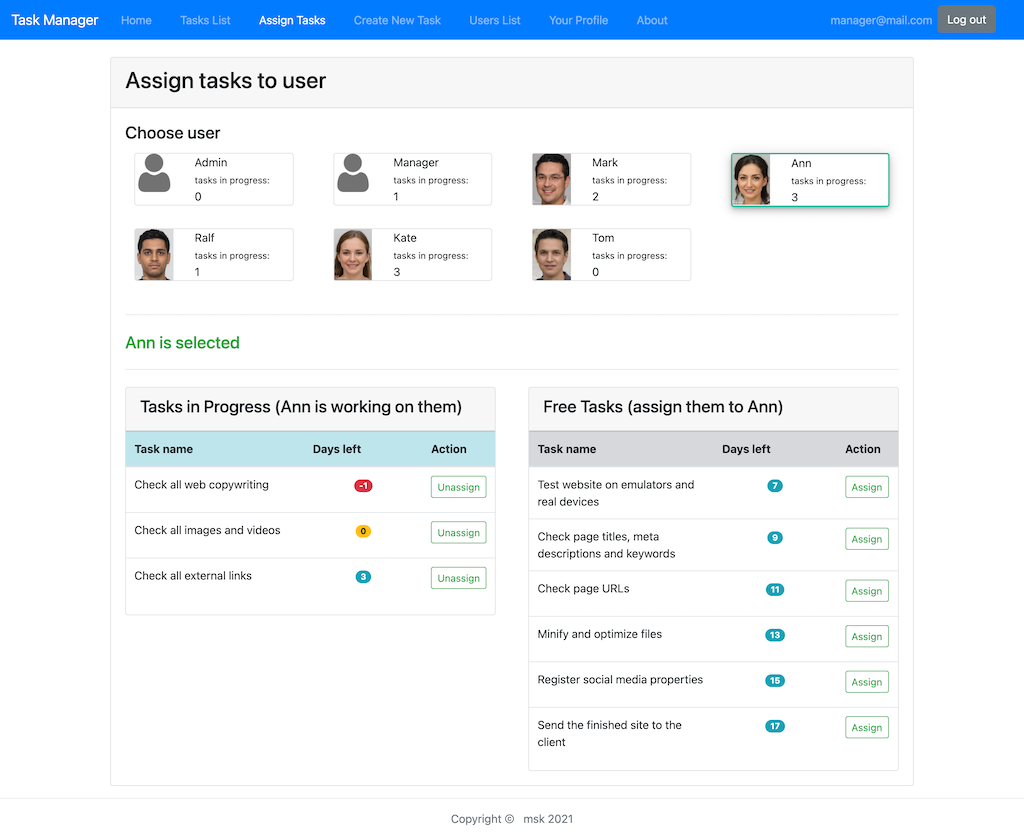
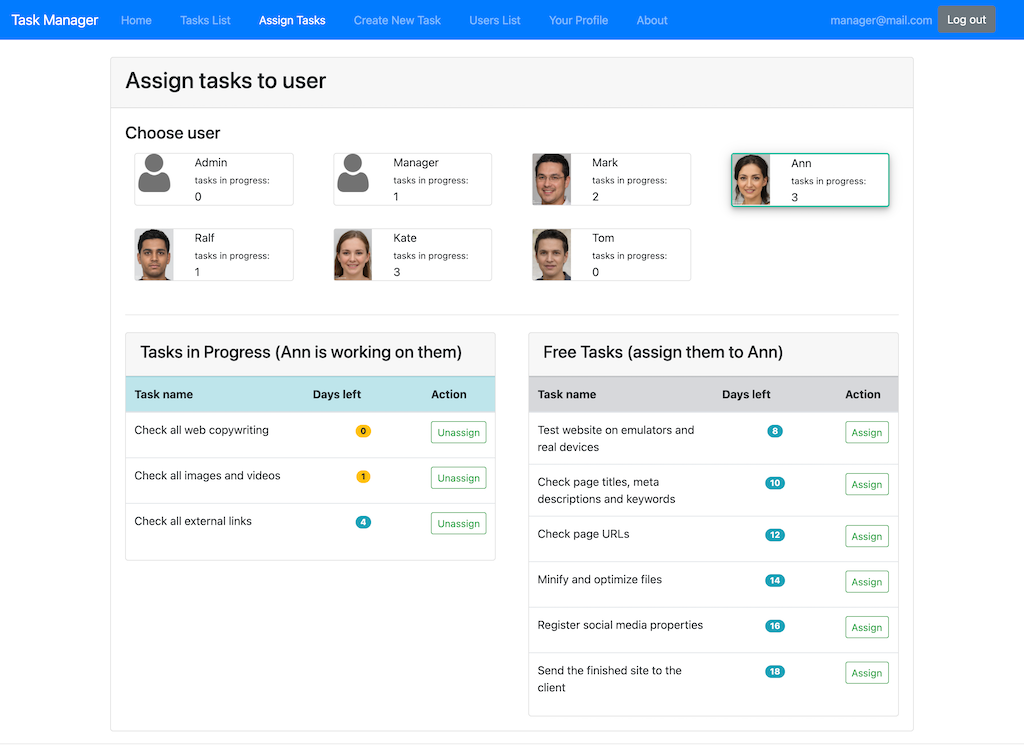
Modify UI of Assign Tasks page

diff --git a/src/main/resources/templates/forms/assignment.html b/src/main/resources/templates/forms/assignment.html
@@ -52,16 +52,7 @@
                 </div>
             </div>
 
-            <hr class="my-4">
-
-            <h2 class="my-second-header" th:if="${selectedUser==null}">No user is selected</h2>
-            <h2 class="my-second-header" th:unless="${selectedUser==null}">
-                <span class="text-success"
-                      th:text="${selectedUser.getName() +' is selected'}">
-                </span>
-            </h2>
-
-            <hr class="my-4">
+            <hr class="my-4" th:if="${selectedUser!=null}">
 
             <!--section active only if user is selected-->
             <div class="row" th:if="${selectedUser!=null}">

diff --git a/README.md b/README.md
@@ -1,29 +1,21 @@
 # Task Management App
-Application for a team or a small company to manage tasks
+Application for a team to manage tasks
 
 Read this in other languages: [日本語](README.ja.md)
 
-![Image of Task Management App](src/main/resources/static/images/taskManager.png)
-
 ## Features
-Most features require logging in.<br/>
-Not authorized users have access to the welcome, login, and registration page.
 
-**Admin (manager) can:**
+**Admin**
 -   Create task and assign task to any user
--   View list of all users with possibility to delete user
--   View list of all tasks with editing or deleting task
--   Switch task as completed/uncompleted
+-   View list of all users and delete user
+-   View list of all tasks, edit and delete task
+-   Switch task completed/uncompleted
 
-**Common user (employee) can:**
+**Common user**
 -   Create task only for himself
--   View list of all users with no action allowed
--   View list of all tasks with editing or deleting only tasks for which he is responsible
--   Switch owned task as completed/uncompleted
-
-**Every authorized user can:**
--   View his own profile
-
+-   View list of all users
+-   View list of all tasks, edit and delete only tasks that he is responsible for
+-   Switch owned task completed/uncompleted
 
 ## Development Environment
 * Java 8（jdk1.8.0_171）

diff --git a/README.ja.md b/README.ja.md
@@ -1,24 +1,20 @@
 # タスク管理アプリ
 チームでのタスク管理ができるアプリ
 
-![Image of Task Management App](src/main/resources/static/images/taskManager.png)
-
 ## 特徴
 各ユーザーは以下の操作が可能
 
-**管理者:**
+**管理者**
 -   タスクの作成、ユーザーへのタスクの割り当て
 -   ユーザー一覧の閲覧、ユーザーの削除
 -   タスク一覧の閲覧、タスクの編集・削除
 -   タスクの完了・未完了の切り替え
--   プロフィールページの閲覧
 
-**一般ユーザー:**
+**一般ユーザー**
 -   タスクの作成
 -   ユーザー一覧の閲覧
 -   タスク一覧の閲覧、担当しているタスクの編集・削除
 -   担当しているタスクの完了・未完了の切り替え
--   プロフィールページの閲覧
 
 ## 開発環境
 * Java 8（jdk1.8.0_171）
